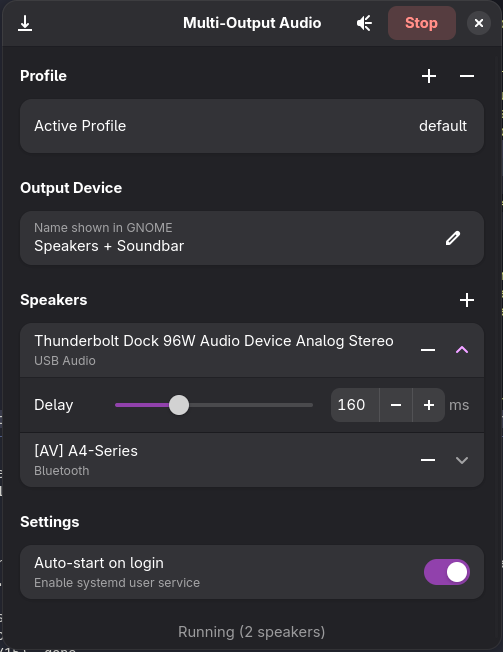
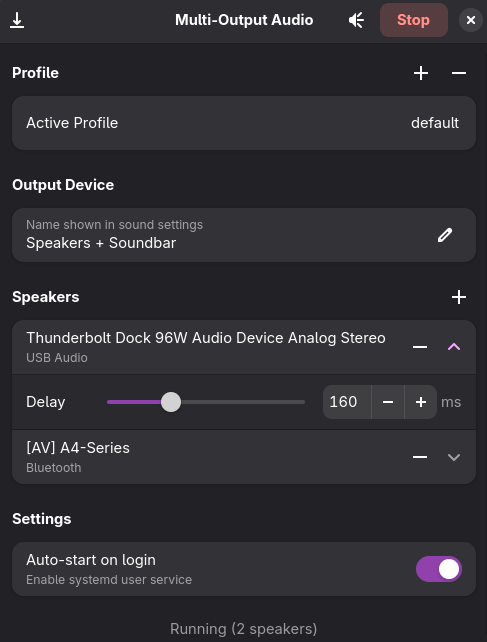
Don't use GNOME specific wording
Update screenshot

diff --git a/multi_output/cli.py b/multi_output/cli.py
@@ -61,7 +61,7 @@ def cmd_start(args: argparse.Namespace) -> None:
                 more = input("\nAdd another speaker? [y/N]: ").strip().lower()
                 if more != "y":
                     break
-        name_str = input("\nDevice name shown in GNOME [Speakers/Soundbar]: ").strip()
+        name_str = input("\nDevice name shown in sound settings [Speakers/Soundbar]: ").strip()
         config = core.MultiOutputConfig(
             slug=slug,
             name=name_str or "Speakers/Soundbar",
@@ -307,7 +307,7 @@ def main() -> None:
         "--name",
         type=str,
         default=None,
-        help='Device name shown in GNOME (default: "Speakers/Soundbar")',
+        help='Device name shown in sound settings (default: "Speakers/Soundbar")',
     )
     start_p.add_argument(
         "--wait",

diff --git a/multi_output/gui.py b/multi_output/gui.py
@@ -237,7 +237,7 @@ class MultiOutputApp(Adw.Application):
 
         # Device name group
         name_group = Adw.PreferencesGroup(title="Output Device")
-        self.name_entry = Adw.EntryRow(title="Name shown in GNOME")
+        self.name_entry = Adw.EntryRow(title="Name shown in sound settings")
         self.name_entry.set_text(self.config.name)
         self.name_entry.connect("changed", self._on_name_changed)
         name_group.add(self.name_entry)

diff --git a/multi_output/core.py b/multi_output/core.py
@@ -71,7 +71,7 @@ class MultiOutputConfig:
     """Configuration for the multi-output setup."""
 
     slug: str = "default"
-    name: str = "Speakers/Soundbar"  # device description shown in GNOME
+    name: str = "Speakers/Soundbar"  # device description shown in sound settings
     speakers: list[SpeakerConfig] = field(default_factory=list)
 
 
